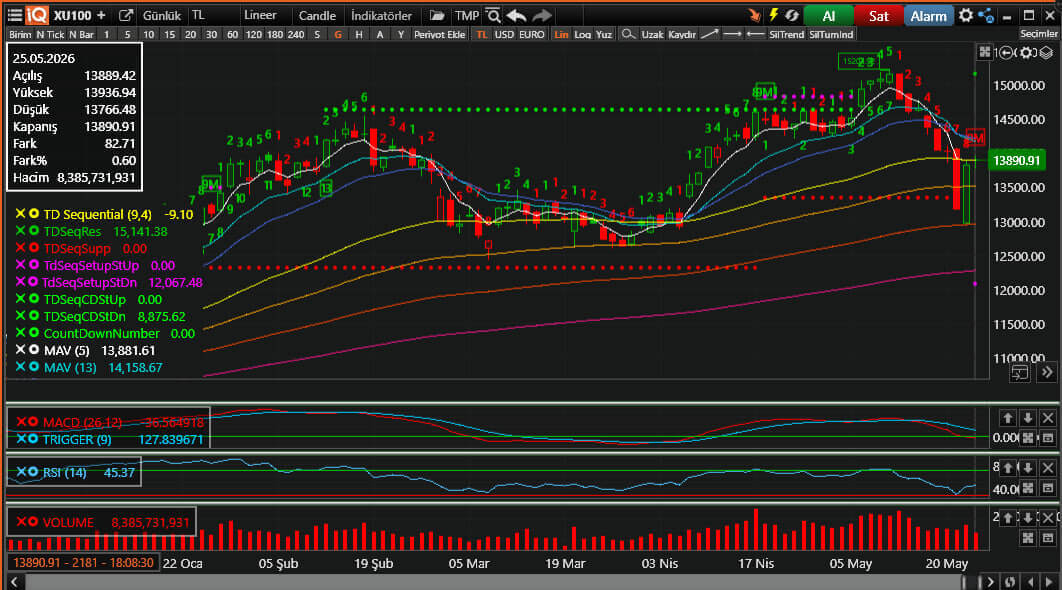
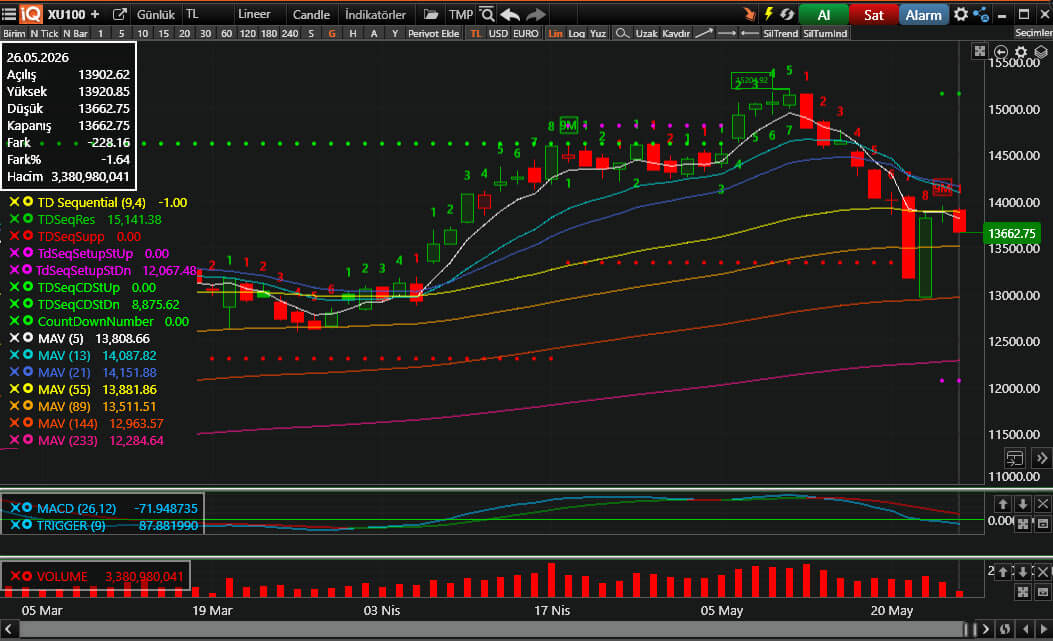
yaz

diff --git a/app/borsa/gunluk-borsa-ozeti/page.tsx b/app/borsa/gunluk-borsa-ozeti/page.tsx
@@ -2,112 +2,115 @@ import Image from "next/image";
 import Link from "next/link";
 
 const bistVeri = {
-  tarih: "25.05.2026",
-  kapanis: "13890.91",
-  degisimYuzde: 0.6,
-  toplamHacim: "236.002.181.903",
+  tarih: "01.06.2026",
+  kapanis: "13622.75",
+  degisimYuzde: -1.64,
+  toplamHacim: "140.862.232.809",
 };
 
 const tumYukselenler = [
-  { kod: "HATSN", fark: "+10,00%" },
-  { kod: "DITAS", fark: "+10,00%" },
-  { kod: "LINK", fark: "+10,00%" },
-  { kod: "MAALT", fark: "+10,00%" },
-  { kod: "UCAYM", fark: "+10,00%" },
-  { kod: "QUAGR", fark: "+10,00%" },
-  { kod: "EKDMR", fark: "+10,00%" },
-  { kod: "CWENE", fark: "+9,99%" },
-  { kod: "HRKET", fark: "+9,99%" },
-  { kod: "ICBCT", fark: "+9,99%" },
+  { kod: "BIGEN", fark: "+10,00%" },
+  { kod: "IPINVF2", fark: "+10,00%" },
+  { kod: "PATEK", fark: "+9,99%" },
+  { kod: "HRKET", fark: "+9,96%" },
+  { kod: "ERCB", fark: "+9,96%" },
+  { kod: "HATSN", fark: "+9,94%" },
+  { kod: "LINK", fark: "+9,94%" },
+  { kod: "EKDMR", fark: "+9,92%" },
 ];
 
 const tumDusenler = [
-  { kod: "TPKGYF1", fark: "-10,00%" },
-  { kod: "ISKPL", fark: "-10,00%" },
-  { kod: "QPERPF1", fark: "-9,99%" },
-  { kod: "APYMDF2", fark: "-9,97%" },
-  { kod: "GUNDG", fark: "-9,96%" },
-  { kod: "ONCSM", fark: "-9,95%" },
-  { kod: "DUNYH", fark: "-9,41%" },
-  { kod: "BORSK", fark: "-7,81%" },
-  { kod: "GEDZA", fark: "-6,77%" },
-  { kod: "NIBAS", fark: "-4,97%" },
+  { kod: "EUPWR", fark: "-9,99%" },
+  { kod: "ISKPL", fark: "-9,99%" },
+  { kod: "HAPTF2", fark: "-9,95%" },
+  { kod: "APYMDF2", fark: "-9,92%" },
+  { kod: "KLRHO", fark: "-9,85%" },
+  { kod: "EMPAE", fark: "-8,86%" },
+  { kod: "ASTOR", fark: "-8,49%" },
+  { kod: "YEOTK", fark: "-6,52%" },
 ];
 
 const tumHacimliler = [
-  { kod: "THYAO", hacim: "13.153.259.974" },
-  { kod: "SASA", hacim: "8.970.753.496" },
-  { kod: "ASTOR", hacim: "8.339.934.435" },
-  { kod: "AKBNK", hacim: "8.089.260.171" },
-  { kod: "EREGL", hacim: "7.497.846.350" },
-  { kod: "ISCTR", hacim: "6.418.302.278" },
-  { kod: "ASELS", hacim: "6.147.024.877" },
-  { kod: "YKBNK", hacim: "5.135.923.278" },
-  { kod: "TUPRS", hacim: "4.816.626.139" },
-  { kod: "GARAN", hacim: "4.721.539.978" },
+  { kod: "ASELS", hacim: "9.058.282.693" },
+  { kod: "ASTOR", hacim: "7.577.431.979" },
+  { kod: "EUPWR", hacim: "5.294.735.723" },
+  { kod: "FROTO", hacim: "5.078.789.555" },
+  { kod: "AKBNK", hacim: "4.684.577.059" },
+  { kod: "THYAO", hacim: "3.484.485.135" },
+  { kod: "GESAN", hacim: "3.092.940.551" },
+  { kod: "KTLEV", hacim: "2.837.146.551" },
 ];
 
 const tumParaGirisi = [
-  { kod: "KTLEV", tutar: "+88.024.882" },
-  { kod: "AKBNK", tutar: "+81.208.788" },
-  { kod: "GARAN", tutar: "+78.059.934" },
-  { kod: "THYAO", tutar: "+55.069.706" },
-  { kod: "MIATK", tutar: "+41.410.393" },
-  { kod: "EREGL", tutar: "+28.267.024" },
-  { kod: "PASEU", tutar: "+27.490.420" },
-  { kod: "SISE", tutar: "+24.741.336" },
-  { kod: "EFOR", tutar: "+23.156.364" },
-  { kod: "VAKBN", tutar: "+22.445.246" },
+  { kod: "THHOL", tutar: "+85.330.749" },
+  { kod: "KTLEV", tutar: "+81.486.809" },
+  { kod: "CVKMD", tutar: "+42.105.326" },
+  { kod: "YEOTK", tutar: "+28.962.273" },
+  { kod: "TUPRS", tutar: "+25.445.827" },
+  { kod: "SAHOL", tutar: "+25.229.119" },
+  { kod: "IZENR", tutar: "+25.057.464" },
+  { kod: "TTKOM", tutar: "+23.254.839" },
+  { kod: "THYAO", tutar: "+23.240.894" },
+  { kod: "EKDMR", tutar: "+22.557.943" },
 ];
 
 const tumParaCikisi = [
-  { kod: "BIMAS", tutar: "-313.522.300" },
-  { kod: "ASTOR", tutar: "-246.701.151" },
-  { kod: "ASELS", tutar: "-127.404.399" },
-  { kod: "TUPRS", tutar: "-110.840.347" },
-  { kod: "ISKPL", tutar: "-109.072.724" },
-  { kod: "ISCTR", tutar: "-98.453.998" },
-  { kod: "TAVHL", tutar: "-55.485.145" },
-  { kod: "KRDMD", tutar: "-53.693.990" },
-  { kod: "FROTO", tutar: "-46.054.077" },
+  { kod: "ASTOR", tutar: "-301.787.538" },
+  { kod: "AKBNK", tutar: "-249.235.585" },
+  { kod: "FROTO", tutar: "-154.624.448" },
+  { kod: "ASELS", tutar: "-129.833.415" },
+  { kod: "TRALT", tutar: "-80.527.356" },
+  { kod: "EUPWR", tutar: "-72.939.997" },
+  { kod: "GARAN", tutar: "-71.208.650" },
+  { kod: "BIMAS", tutar: "-67.039.244" },
+  { kod: "TCELL", tutar: "-60.241.553" },
 ];
 
 const enCokAlisYapanKurumlar = [
-  { kurum: "ZIRAAT", hacim: "1.333.253.882", oran: "%12,23" },
-  { kurum: "VAKIF", hacim: "1.154.239.071", oran: "%10,59" },
-  { kurum: "DESTEK", hacim: "1.132.345.530", oran: "%10,39" },
-  { kurum: "IS", hacim: "922.387.540", oran: "%8,46" },
-  { kurum: "TERA", hacim: "710.371.213", oran: "%6,52" },
+  { kurum: "TERA", hacim: "933.203.176", oran: "%12,97" },
+  { kurum: "GARANTI BBVA", hacim: "670.160.291", oran: "%9,32" },
+  { kurum: "DESTEK", hacim: "578.555.997", oran: "%8,04" },
+  { kurum: "VAKIF", hacim: "543.264.671", oran: "%7,55" },
+  { kurum: "DENIZ", hacim: "472.140.383", oran: "%6,57" },
 ];
 
 const enCokSatisYapanKurumlar = [
-  { kurum: "BANK OF AMERICA", hacim: "-5.915.043.715", oran: "%54,27" },
-  { kurum: "TACIRLER", hacim: "-2.219.229.945", oran: "%20,36" },
-  { kurum: "GLOBAL", hacim: "-650.289.248", oran: "%5,97" },
-  { kurum: "UNLU", hacim: "-623.531.647", oran: "%5,72" },
-  { kurum: "KUVEYT TURK", hacim: "-361.134.797", oran: "%3,31" },
+  { kurum: "BANK OF AMERICA", hacim: "-2.789.484.753", oran: "%38,78" },
+  { kurum: "INFO", hacim: "-863.467.270", oran: "%12,00" },
+  { kurum: "AK", hacim: "-680.839.202", oran: "%9,47" },
+  { kurum: "MEKSA", hacim: "-517.676.617", oran: "%7,20" },
+  { kurum: "ALNUS", hacim: "-417.320.656", oran: "%5,80" },
 ];
 
 const enCokHacimYapanKurumlar = [
-  { kurum: "BANK OF AMERICA", hacim: "64.119.090.850", oran: "%13,58" },
-  { kurum: "YAPI KREDI", hacim: "63.287.150.922", oran: "%13,41" },
-  { kurum: "IS", hacim: "51.451.069.394", oran: "%10,90" },
-  { kurum: "AK", hacim: "35.590.005.708", oran: "%7,54" },
-  { kurum: "TACIRLER", hacim: "20.261.918.699", oran: "%4,29" },
+  { kurum: "BANK OF AMERICA", hacim: "62.187.687.729", oran: "%22,07" },
+  { kurum: "AK", hacim: "36.516.672.881", oran: "%12,96" },
+  { kurum: "YAPI KREDI", hacim: "28.988.775.020", oran: "%10,29" },
+  { kurum: "IS", hacim: "26.987.113.089", oran: "%9,58" },
+  { kurum: "INFO", hacim: "10.323.233.794", oran: "%3,66" },
 ];
 
 const ekonomikTakvimVerileri = [
   {
-    tarih: "25.05.2026",
+    tarih: "01.06.2026",
     kayitlar: [
       {
         saat: "10:00",
         ulke: "TR",
-        gosterge: "TÜİK Ekonomik Güven Endeksi",
-        onem: "turuncu-gri" as const,
-        aciklanan: "97.2",
+        gosterge: "GSYH Yıllık Değişim",
+        onem: "kirmizi" as const,
+        aciklanan: "-",
+        beklenti: "2.7%",
+        onceki: "3.4%",
+      },
+      {
+        saat: "11:00",
+        ulke: "TR",
+        gosterge: "İbrazında Karşılıksız Kalan Çek (adet)",
+        onem: "sari-tek" as const,
+        aciklanan: "-",
         beklenti: "-",
-        onceki: "96.4",
+        onceki: "18.131",
       },
     ],
   },
